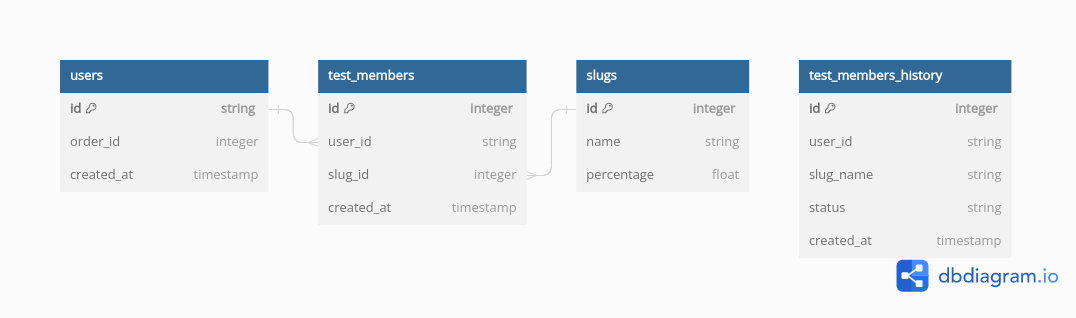
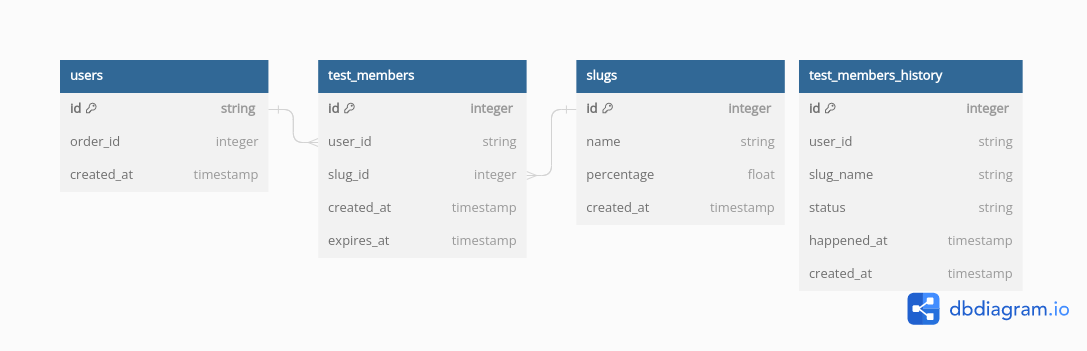
init database

diff --git a/pkg/repository/postgresql.go b/pkg/repository/postgresql.go
@@ -1,0 +1,82 @@
+package repository
+
+import (
+	"fmt"
+	"github.com/jmoiron/sqlx"
+	_ "github.com/lib/pq"
+	"log"
+)
+
+const (
+	host     = "localhost"
+	port     = 5434
+	user     = "admin"
+	password = "admin"
+	dbname   = "user_segmentation"
+)
+
+const initialSQL = `
+	CREATE TABLE IF NOT EXISTS users (
+	  id VARCHAR(30) PRIMARY KEY,
+	  order_id SERIAL NOT NULL UNIQUE,
+	  created_at TIMESTAMP NOT NULL  DEFAULT CURRENT_TIMESTAMP 
+	);
+
+	CREATE TABLE IF NOT EXISTS test_members (
+	  id SERIAL PRIMARY KEY,
+	  user_id VARCHAR NOT NULL ,
+	  slug_id INTEGER NOT NULL ,
+	  created_at TIMESTAMP NOT NULL DEFAULT  CURRENT_TIMESTAMP,
+	  expires_at TIMESTAMP,
+	  UNIQUE (user_id, slug_id)
+	);
+
+	CREATE TABLE IF NOT EXISTS slugs (
+	  id SERIAL PRIMARY KEY,
+	  name VARCHAR(30) NOT NULL UNIQUE ,
+	  percentage NUMERIC (5, 2),
+	  created_at TIMESTAMP NOT NULL DEFAULT CURRENT_TIMESTAMP,
+	  CHECK ((percentage > 0 AND percentage <= 100) OR percentage is NULL)
+	);
+
+
+	CREATE TYPE test_status AS ENUM ('deleted', 'added');
+
+	CREATE TABLE IF NOT EXISTS test_members_history (
+	  id SERIAL PRIMARY KEY,
+	  user_id VARCHAR(30) NOT NULL,
+	  slug_name VARCHAR(30) NOT NULL,
+	  status test_status,
+	  happened_at TIMESTAMP NOT NULL DEFAULT CURRENT_TIMESTAMP,
+	  created_at TIMESTAMP NOT NULL DEFAULT CURRENT_TIMESTAMP
+	);
+
+	ALTER TABLE "test_members" ADD FOREIGN KEY ("user_id") REFERENCES "users" ("id");
+
+	ALTER TABLE "test_members" ADD FOREIGN KEY ("slug_id") REFERENCES "slugs" ("id");
+
+	CREATE INDEX idx_tests_user_id ON test_members (user_id);
+	CREATE INDEX idx_tests_slug_id ON test_members (slug_id);
+	CREATE INDEX idx_timestamp ON test_members (created_at, expires_at);
+	CREATE INDEX idx_history_user_id ON test_members_history (user_id);
+
+`
+
+func NewPostgresDB() (*sqlx.DB, error) {
+	psqlInfo := fmt.Sprintf("host=%s port=%d user=%s "+
+		"password=%s dbname=%s sslmode=disable",
+		host, port, user, password, dbname)
+	db, err := sqlx.Connect("postgres", psqlInfo)
+	if err != nil {
+		log.Println("failed to connect to database")
+		return nil, err
+	}
+	_, err = db.Exec(initialSQL)
+	if err != nil {
+		fmt.Println(err)
+		return nil, err
+	}
+
+	fmt.Println("Successfully connected!")
+	return db, nil
+}

diff --git a/pkg/config/config.go b/pkg/config/config.go
@@ -1,0 +1,38 @@
+package config
+
+import (
+	"fmt"
+	"github.com/ilyakaznacheev/cleanenv"
+	"log"
+	"os"
+	"time"
+)
+
+const configPath = "config/local.yaml"
+
+type Config struct {
+	Env         string `yaml:"env" env-default:"local"`
+	StoragePath string `yaml:"storage-path" env-required:"true"`
+	HTTPServer  `yaml:"http-server"`
+}
+
+type HTTPServer struct {
+	Address     string        `yaml:"address" evn-default:"localhost:8080"`
+	Timeout     time.Duration `yaml:"timeout" env-default:"4s"`
+	IdleTimeout time.Duration `yaml:"idle-timeout" env-default:"60s"`
+}
+
+func MustLoad() Config {
+	// check if file exists
+	if _, err := os.Stat(configPath); os.IsNotExist(err) {
+		fmt.Println()
+		log.Fatalf("config file does not exists: %s", configPath)
+	}
+
+	var cfg Config
+
+	if err := cleanenv.ReadConfig(configPath, &cfg); err != nil {
+		log.Fatalf("cannot read config: %s", err)
+	}
+	return cfg
+}

diff --git a/cmd/main.go b/cmd/main.go
@@ -1,0 +1,22 @@
+package main
+
+import (
+	"dynamic-user-segmentation/pkg/config"
+	"dynamic-user-segmentation/pkg/repository"
+	"fmt"
+	_ "github.com/jackc/pgx"
+)
+
+func main() {
+	// TODO: init config
+	cfg := config.MustLoad()
+	fmt.Println(cfg)
+	// TODO: init logger
+
+	// TODO: init database
+	db, err := repository.NewPostgresDB()
+	_, _ = db, err
+
+	// TODO: init router
+
+}

diff --git a/README.md b/README.md
@@ -39,10 +39,13 @@
 #### 3. Добавление пользователя в сегменты - PUT /api/public/v1/users/{user_id}/slugs
 Тело запроса:
 
-|   | Название        | Формат       | Кратность | Описание                                                         |
-|---|-----------------|--------------|-----------|------------------------------------------------------------------|
-| 1 | slugs_to_delete | List[string] | 0-1       | список уникальных названий сегментов для добавления пользователю |
-| 2 | slugs_to_add    | List[string] | 0-1       | список уникальных названий сегментов для удаления у пользователя |
+|   | Название         | Формат            | Кратность | Описание                                                       |
+|---|------------------|-------------------|-----------|----------------------------------------------------------------|
+| 1 | slugs_to_delete  | List[string]      | 0-1       | список уникальных названий сегментов для удаления пользователю |
+| 2 | slugs_to_add     | List[slug_to_add] | 0-1       | список сегментов для добавления у пользователя                 |
+| - | slug_to_add      | Object            | -         | сегмент для добавления                                         |
+| - | -.slug_name      | string            | 0-1       | уникальное название сегмента для добавления пользователю       |
+| - | -.ttl_in_seconds | int               | 0-1       | время действия сегмента у пользователя                         |
 
 Параметры пути:
 
